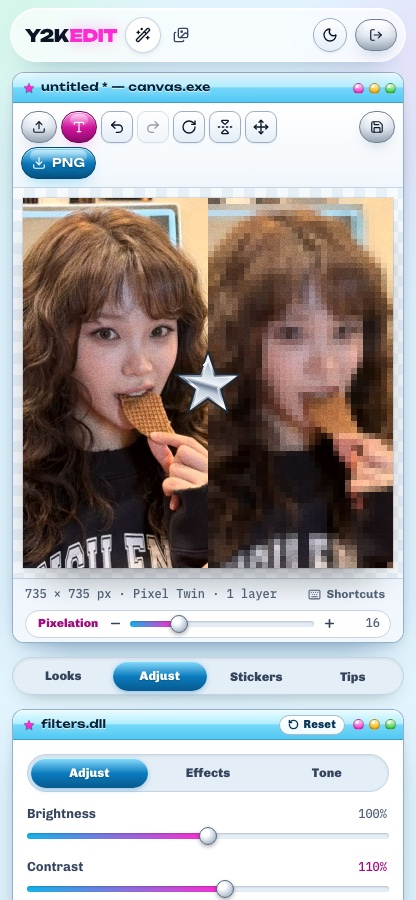
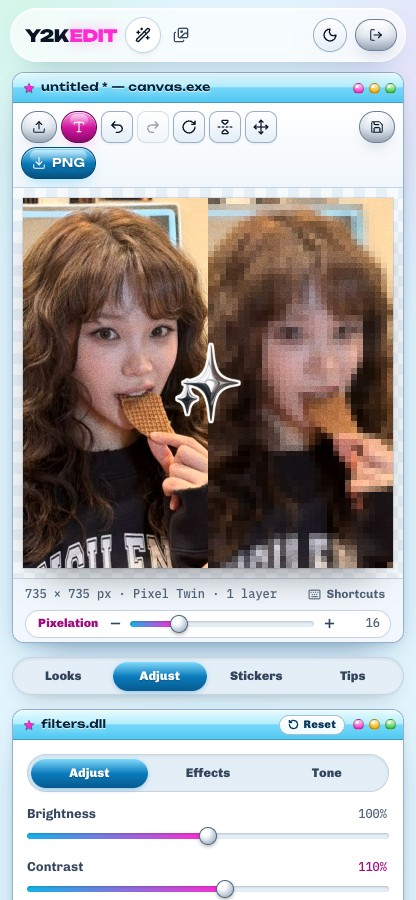
README: screenshots and sticker notes for the new set
Retakes the landing, editor, phone and gallery screenshots so they show
the new stickers (same photos and looks as before), and updates the
sticker count, groups, file list and credits in README, PRODUCT.md and
DESIGN.md.

diff --git a/README.md b/README.md
@@ -16,7 +16,7 @@ No AI: every look is plain canvas maths running in your browser, and your photo 
 - **Layouts:** Single, Twin, Mirror and Pixel Twin. Two-photo layouts start in a 1:1 frame (or pick Fit, 4:5 or 3:4). **Arrange** mode lets you drag each photo inside its panel, zoom it with the wheel or a pinch, and drag the divider anywhere from 25% to 75%; you can also swap sides and join the panels with a cut, a thin line or a soft fade. Rotate and flip the source photo.
 - **Pixelation meter:** whenever something is pixelated (always in Pixel Twin, where it's the twin photo on the right), a **Pixelation** meter sits under the canvas. Drag it down for a fine mosaic or up for a few big squares, use − and + for small steps, and click the number to go back to the look's own size.
 - **19 adjustments:** brightness, contrast, saturation, hue, warmth, tint, fade, sepia, grayscale, blur, pixelate, soft focus, dreamy glow, film grain, vignette, RGB split, scanlines, plus six split tones (Retro, Ember, Cinema, Midnight, Rose, Olive) and six duotones. Soft focus and Dreamy glow each have their own blur slider in the Effects tab, which sets how far the haze or glow spreads.
-- **55 built-in stickers** in six groups (faces and props like a moustache, nerd glasses and dog ears; stars; exclamations and marks; gothic crosses and advisory labels; flowers and butterflies; Y2K tech), and your own uploads: the server cuts out white backgrounds (flood-filled from the edges, so white details inside the sticker survive). Admin accounts' stickers are shared with everyone.
+- **50 built-in stickers** in seven groups (stars and sparkles; hearts, lips and kiss marks; flowers, cherries and bows; word stickers like Certified Yapper, Star Girl and the advisory label; the moustache and manga marks; washi tape and paper scraps; disco balls, a pixel cursor and other party bits), and your own uploads: the server cuts out white backgrounds (flood-filled from the edges, so white details inside the sticker survive). Admin accounts' stickers are shared with everyone.
 - **Text layers** in 15 styles (chrome, holo, neon, bubble, horror, datestamp, white, black, meme caption, glitter, VHS, echo, tooltip, chat bubble, speech bubble) and 9 fonts.
 - **Undo / redo** and keyboard shortcuts (`⌘Z`, `⇧⌘Z`, `⌘S`, `⌘D`, `⌫`, arrows, `[ ]`, `T`, `A`, `?`).
 - **Touch gestures:** drag, pinch to resize and twist to rotate on phones; trackpad pinch on desktop.
@@ -103,7 +103,7 @@ backend/app/        FastAPI app: config, db (Mongo + GridFS), security, images (
 backend/tests/      pytest suite
 frontend/src/editor renderer, presets, stickers, text styles, undo history, editor panels
 frontend/src/pages  landing, auth, editor, gallery, public share page
-frontend/public     stickers (48 SVGs + 7 PNGs), sample photo
+frontend/public     stickers (46 WebP cut-outs, 3 PNGs, 1 SVG), sample photo
 PRODUCT.md          who it's for and what it must keep doing
 DESIGN.md           the visual system (tokens, components, rules)
 ```
@@ -125,4 +125,4 @@ This is a ground-up rewrite of the Emergent-generated version. The original coul
 - Sample portrait (the in-app "Use the sample" photo): Unsplash photo [`photo-1581841064838-a470c740e8ee`](https://images.unsplash.com/photo-1581841064838-a470c740e8ee), Unsplash License. The screenshots in this README use other photos.
 - Fonts from Google Fonts: Unbounded, Chivo, IBM Plex Mono, Press Start 2P, UnifrakturCook, Tinos, Anton, VT323.
 - Icons: [Lucide](https://lucide.dev).
-- The chrome rockstar, halftone star, dot stars, parental advisory and pixel cursor stickers come from the original Y2KEDIT build; the other 50 stickers were drawn for this version.
+- The parental advisory sticker comes from the original Y2KEDIT build and the moustache was drawn for this version. The other 48 stickers are cut out of sticker images collected on Pinterest: backgrounds removed, die-cut borders kept, and the two pixel-art ones redrawn on their pixel grid so they stay sharp.

diff --git a/DESIGN.md b/DESIGN.md
@@ -220,7 +220,7 @@ A 4:5 thumbnail of the user's own photo rendered through the real engine with th
 ### Do:
 - **Do** put every panel, dialog and card in a program window with a filename title (`share.exe`, `readme.txt`).
 - **Do** keep white labels only on the deepened jelly colours (#0a7bbd, #d4179f), so they pass 4.5:1.
-- **Do** draw icons from Lucide or as authored SVG; stickers are authored SVG or PNG assets.
+- **Do** draw icons from Lucide or as authored SVG; stickers are SVG, PNG or WebP assets with transparent backgrounds.
 - **Do** keep the photo the most saturated thing on the editor screen.
 - **Do** respect `prefers-reduced-motion`: bubbles, marquee and the scan-in reel all settle.
 

diff --git a/PRODUCT.md b/PRODUCT.md
@@ -50,7 +50,7 @@ No AI. Every look is deterministic canvas processing in the browser, and the pho
 
 ## Evidence on Hand
 
-- Five sticker PNGs from the original repo: chrome star, rockstar star, halftone star, parental advisory, pixel cursor (`frontend/public/stickers/`).
+- Built-in stickers (`frontend/public/stickers/`): the parental advisory PNG from the original repo, a drawn moustache, and 48 cut-outs of sticker images the owner collected on Pinterest.
 - Sample portrait from Unsplash (photo-1581841064838-a470c740e8ee), referenced by the original design guidelines (`frontend/public/samples/portrait.jpg`).
 - No testimonials, user counts, ratings or press exist. Don't invent any.
 
